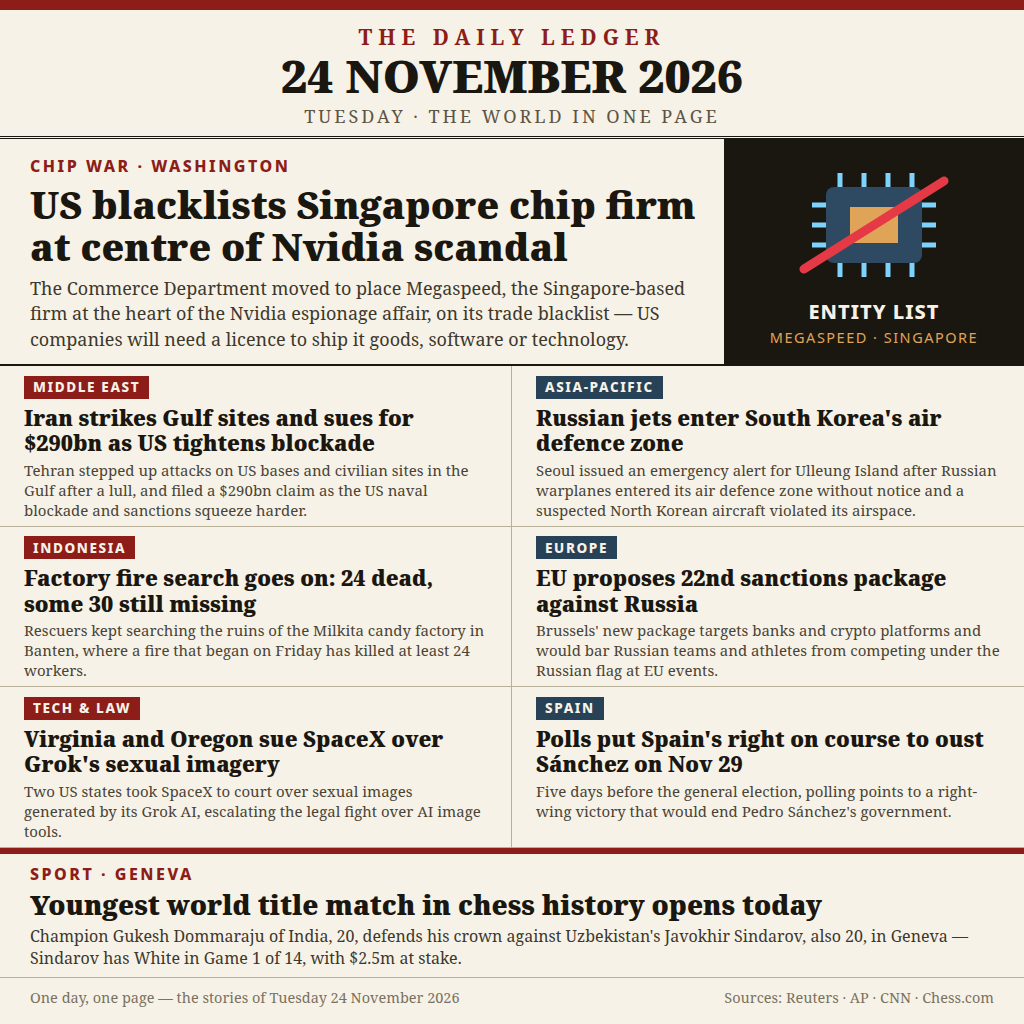
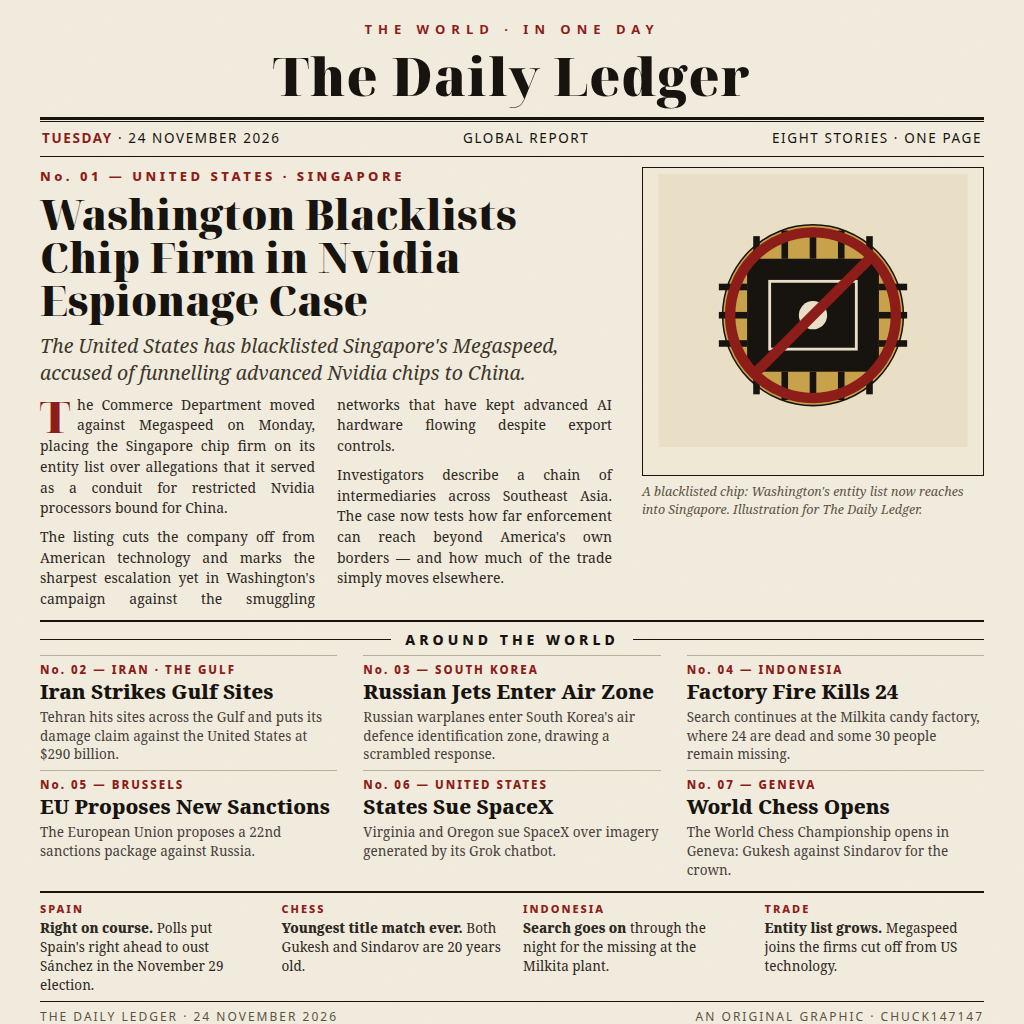
Premium broadsheet redesign: serif Ledger layout, chip-ban plate illustration

diff --git a/news.html b/news.html
@@ -4,106 +4,150 @@
 <meta charset="utf-8">
 <style>
   * { margin: 0; padding: 0; box-sizing: border-box; }
-  body { width: 1024px; height: 1024px; font-family: Georgia, "Noto Serif", "DejaVu Serif", serif; background: #f7f2e7; color: #1a1710; overflow: hidden; }
-  .rule-top { border-top: 10px solid #8c1d18; }
-  .masthead { text-align: center; padding: 13px 30px 8px; border-bottom: 3px double #1a1710; }
-  .masthead .brand { font-size: 21px; letter-spacing: 6px; color: #8c1d18; font-weight: 700; }
-  .masthead .date { font-size: 46px; font-weight: 900; line-height: 1.08; }
-  .masthead .sub { font-size: 18px; letter-spacing: 3px; color: #5c5546; margin-top: 3px; }
-  .lead { display: flex; border-bottom: 2.5px solid #1a1710; }
-  .lead .txt { flex: 1; padding: 16px 26px 12px 30px; }
-  .kicker { font-family: "Noto Sans", "DejaVu Sans", sans-serif; color: #8c1d18; font-weight: 800; font-size: 16px; letter-spacing: 2.5px; }
-  .lead h1 { font-size: 38px; line-height: 1.12; font-weight: 900; margin: 6px 0 8px; }
-  .lead p { font-size: 18px; line-height: 1.42; color: #3d382c; }
-  .lead .art { width: 300px; background: #1a1710; display: flex; flex-direction: column; align-items: center; justify-content: center; padding: 14px 0 10px; }
-  .lead .art .cap1 { color: #f7f2e7; font-family: "Noto Sans", sans-serif; font-size: 20px; font-weight: 800; margin-top: 9px; text-align: center; letter-spacing: 1px; }
-  .lead .art .cap2 { color: #e0a458; font-family: "Noto Sans", sans-serif; font-size: 14.5px; margin-top: 2px; letter-spacing: 1.5px; }
-  .grid { display: grid; grid-template-columns: 1fr 1fr; }
-  .story { padding: 9px 24px 6px; border-bottom: 1.5px solid #b9b09a; min-height: 112px; }
-  .story:nth-child(odd) { border-right: 1.5px solid #b9b09a; }
-  .story .tag { font-family: "Noto Sans", sans-serif; display: inline-block; font-size: 13.5px; font-weight: 800; letter-spacing: 1.6px; color: #f7f2e7; background: #8c1d18; padding: 2.5px 9px; margin-bottom: 6px; }
-  .story .tag.alt { background: #274156; }
-  .story h2 { font-size: 21.5px; line-height: 1.18; font-weight: 900; margin-bottom: 4px; }
-  .story p { font-size: 15px; line-height: 1.34; color: #4a4436; }
-  .band { border-top: 6px solid #8c1d18; padding: 9px 30px 2px; }
-  .band h1 { font-size: 27px; line-height: 1.18; font-weight: 900; margin: 4px 0 4px; }
-  .band p { font-size: 16px; line-height: 1.38; color: #3d382c; }
-  footer { display: flex; justify-content: space-between; padding: 9px 30px; font-size: 14.5px; color: #7a7260; border-top: 1.5px solid #b9b09a; margin-top: 6px; }
+  body { width: 1024px; height: 1024px; background: #f4eee0; color: #171410; font-family: "Noto Serif", "DejaVu Serif", serif; overflow: hidden; position: relative; }
+  .grain { position: absolute; inset: 0; opacity: 0.5; pointer-events: none; }
+  .page { position: relative; padding: 20px 40px 0; }
+  .nameplate { text-align: center; }
+  .nameplate .over { font-family: "Noto Sans", sans-serif; font-size: 13px; letter-spacing: 6px; color: #8c1d18; font-weight: 700; }
+  .nameplate h1 { font-family: "Noto Serif Display", "Noto Serif", serif; font-weight: 900; font-size: 52px; letter-spacing: 1px; margin: 2px 0 6px; }
+  .rule-double { border-top: 3.5px solid #171410; border-bottom: 1px solid #171410; height: 5px; }
+  .dateline { display: flex; justify-content: space-between; font-family: "Noto Sans", sans-serif; font-size: 13.5px; letter-spacing: 1.6px; padding: 7px 2px 9px; border-bottom: 1px solid #171410; text-transform: uppercase; }
+  .dateline b { color: #8c1d18; }
+  .lead { display: flex; gap: 30px; padding: 10px 0 10px; border-bottom: 2px solid #171410; }
+  .lead .txt { flex: 1.25; }
+  .kicker { font-family: "Noto Sans", sans-serif; font-size: 13px; font-weight: 800; letter-spacing: 3.5px; color: #8c1d18; }
+  .lead h2 { font-family: "Noto Serif Display", "Noto Serif", serif; font-weight: 900; font-size: 41px; line-height: 1.05; margin: 8px 0 10px; }
+  .standfirst { font-size: 19.5px; font-style: italic; line-height: 1.4; color: #3d372c; margin-bottom: 8px; }
+  .cols { column-count: 2; column-gap: 22px; font-size: 14px; line-height: 1.48; color: #2c2822; text-align: justify; }
+  .cols p + p { margin-top: 8px; }
+  .dropcap::first-letter { font-family: "Noto Serif Display", serif; font-weight: 900; font-size: 44px; float: left; line-height: 0.85; padding: 3px 7px 0 0; color: #8c1d18; }
+  .plate { width: 342px; }
+  .plate .frame { border: 1px solid #171410; padding: 6px; background: #efe8d5; }
+  .plate figcaption { font-size: 12.5px; font-style: italic; color: #5a5344; margin-top: 7px; line-height: 1.4; }
+  .section-head { display: flex; align-items: center; gap: 14px; margin: 8px 0 6px; }
+  .section-head .line { flex: 1; border-top: 1px solid #171410; }
+  .section-head .t { font-family: "Noto Sans", sans-serif; font-size: 14px; font-weight: 800; letter-spacing: 4px; }
+  .briefs { display: grid; grid-template-columns: repeat(3, 1fr); gap: 0 26px; }
+  .brief { padding: 6px 0 6px; border-top: 1px solid #b9b09a; }
+  .brief .no { font-family: "Noto Sans", sans-serif; font-size: 11.5px; font-weight: 800; letter-spacing: 2px; color: #8c1d18; }
+  .brief h3 { font-size: 20.5px; font-weight: 800; line-height: 1.16; margin: 3px 0 4px; }
+  .brief p { font-size: 13.5px; line-height: 1.4; color: #45403a; }
+  .digest { display: grid; grid-template-columns: repeat(4, 1fr); gap: 0 22px; border-top: 2px solid #171410; margin-top: 5px; padding-top: 8px; }
+  .digest .cell .tag { font-family: "Noto Sans", sans-serif; font-size: 11px; font-weight: 800; letter-spacing: 2px; color: #8c1d18; }
+  .digest .cell p { font-size: 13.5px; line-height: 1.42; color: #2c2822; margin-top: 3px; }
+  .digest .cell b { font-weight: 800; }
+  footer { display: flex; justify-content: space-between; border-top: 1px solid #171410; margin-top: 6px; padding-top: 6px; font-family: "Noto Sans", sans-serif; font-size: 12px; letter-spacing: 2px; color: #5a5344; text-transform: uppercase; }
 </style>
 </head>
 <body>
-  <div class="rule-top"></div>
-  <div class="masthead">
-    <div class="brand">THE DAILY LEDGER</div>
-    <div class="date">24 NOVEMBER 2026</div>
-    <div class="sub">TUESDAY · THE WORLD IN ONE PAGE</div>
-  </div>
+  <svg class="grain" width="1024" height="1024"><filter id="n"><feTurbulence type="fractalNoise" baseFrequency="0.9" numOctaves="2"/><feColorMatrix values="0 0 0 0 0  0 0 0 0 0  0 0 0 0 0  0 0 0 0.05 0"/></filter><rect width="1024" height="1024" filter="url(#n)"/></svg>
+  <div class="page">
+    <div class="nameplate">
+      <div class="over">THE WORLD · IN ONE DAY</div>
+      <h1>The Daily Ledger</h1>
+    </div>
+    <div class="rule-double"></div>
+    <div class="dateline">
+      <span><b>Tuesday</b> · 24 November 2026</span>
+      <span>Global Report</span>
+      <span>Eight Stories · One Page</span>
+    </div>
 
-  <div class="lead">
-    <div class="txt">
-      <div class="kicker">CHIP WAR · WASHINGTON</div>
-      <h1>US blacklists Singapore chip firm at centre of Nvidia scandal</h1>
-      <p>The Commerce Department moved to place Megaspeed, the Singapore-based firm at the heart of the Nvidia espionage affair, on its trade blacklist — US companies will need a licence to ship it goods, software or technology.</p>
+    <div class="lead">
+      <div class="txt">
+        <div class="kicker">No. 01 — UNITED STATES · SINGAPORE</div>
+        <h2>Washington Blacklists Chip Firm in Nvidia Espionage Case</h2>
+        <p class="standfirst">The United States has blacklisted Singapore's Megaspeed, accused of funnelling advanced Nvidia chips to China.</p>
+        <div class="cols">
+          <p class="dropcap">The Commerce Department moved against Megaspeed on Monday, placing the Singapore chip firm on its entity list over allegations that it served as a conduit for restricted Nvidia processors bound for China.</p>
+          <p>The listing cuts the company off from American technology and marks the sharpest escalation yet in Washington's campaign against the smuggling networks that have kept advanced AI hardware flowing despite export controls.</p>
+          <p>Investigators describe a chain of intermediaries across Southeast Asia. The case now tests how far enforcement can reach beyond America's own borders — and how much of the trade simply moves elsewhere.</p>
+        </div>
+      </div>
+      <figure class="plate">
+        <div class="frame">
+          <svg width="328" height="290" viewBox="0 0 328 308">
+            <rect width="328" height="290" fill="#e9dfc6"/>
+            <circle cx="164" cy="150" r="96" fill="#c8a24a"/>
+            <circle cx="164" cy="150" r="96" fill="none" stroke="#171410" stroke-width="1.6"/>
+            <g stroke="#171410" stroke-width="7">
+              <line x1="104" y1="96" x2="104" y2="66"/><line x1="134" y1="90" x2="134" y2="60"/>
+              <line x1="164" y1="90" x2="164" y2="60"/><line x1="194" y1="90" x2="194" y2="60"/>
+              <line x1="224" y1="96" x2="224" y2="66"/>
+              <line x1="104" y1="204" x2="104" y2="234"/><line x1="134" y1="210" x2="134" y2="240"/>
+              <line x1="164" y1="210" x2="164" y2="240"/><line x1="194" y1="210" x2="194" y2="240"/>
+              <line x1="224" y1="204" x2="224" y2="234"/>
+              <line x1="94" y1="120" x2="64" y2="120"/><line x1="94" y1="150" x2="64" y2="150"/><line x1="94" y1="180" x2="64" y2="180"/>
+              <line x1="234" y1="120" x2="264" y2="120"/><line x1="234" y1="150" x2="264" y2="150"/><line x1="234" y1="180" x2="264" y2="180"/>
+            </g>
+            <rect x="94" y="90" width="140" height="120" fill="#171410"/>
+            <rect x="118" y="114" width="92" height="72" fill="none" stroke="#e9dfc6" stroke-width="3"/>
+            <circle cx="164" cy="150" r="15" fill="#e9dfc6"/>
+            <circle cx="164" cy="150" r="88" fill="none" stroke="#8c1d18" stroke-width="11"/>
+            <line x1="102" y1="212" x2="226" y2="88" stroke="#8c1d18" stroke-width="11"/>
+          </svg>
+        </div>
+        <figcaption>A blacklisted chip: Washington's entity list now reaches into Singapore. Illustration for The Daily Ledger.</figcaption>
+      </figure>
     </div>
-    <div class="art">
-      <svg width="200" height="128" viewBox="0 0 200 128">
-        <rect x="52" y="26" width="96" height="76" rx="8" fill="#2e4a62"/>
-        <rect x="76" y="46" width="48" height="36" fill="#e0a458"/>
-        <g stroke="#7dd3fc" stroke-width="5">
-          <path d="M66 26 v-14 M90 26 v-14 M114 26 v-14 M138 26 v-14"/>
-          <path d="M66 116 v-14 M90 116 v-14 M114 116 v-14 M138 116 v-14"/>
-          <path d="M52 44 H38 M52 64 H38 M52 84 H38"/>
-          <path d="M162 44 h-14 M162 64 h-14 M162 84 h-14"/>
-        </g>
-        <path d="M30 108 L170 20" stroke="#e63946" stroke-width="9" stroke-linecap="round"/>
-      </svg>
-      <div class="cap1">ENTITY LIST</div>
-      <div class="cap2">MEGASPEED · SINGAPORE</div>
-    </div>
-  </div>
 
-  <div class="grid">
-    <div class="story">
-      <span class="tag">MIDDLE EAST</span>
-      <h2>Iran strikes Gulf sites and sues for $290bn as US tightens blockade</h2>
-      <p>Tehran stepped up attacks on US bases and civilian sites in the Gulf after a lull, and filed a $290bn claim as the US naval blockade and sanctions squeeze harder.</p>
+    <div class="section-head"><div class="line"></div><div class="t">AROUND THE WORLD</div><div class="line"></div></div>
+    <div class="briefs">
+      <div class="brief">
+        <div class="no">No. 02 — IRAN · THE GULF</div>
+        <h3>Iran Strikes Gulf Sites</h3>
+        <p>Tehran hits sites across the Gulf and puts its damage claim against the United States at $290 billion.</p>
+      </div>
+      <div class="brief">
+        <div class="no">No. 03 — SOUTH KOREA</div>
+        <h3>Russian Jets Enter Air Zone</h3>
+        <p>Russian warplanes enter South Korea's air defence identification zone, drawing a scrambled response.</p>
+      </div>
+      <div class="brief">
+        <div class="no">No. 04 — INDONESIA</div>
+        <h3>Factory Fire Kills 24</h3>
+        <p>Search continues at the Milkita candy factory, where 24 are dead and some 30 people remain missing.</p>
+      </div>
+      <div class="brief">
+        <div class="no">No. 05 — BRUSSELS</div>
+        <h3>EU Proposes New Sanctions</h3>
+        <p>The European Union proposes a 22nd sanctions package against Russia.</p>
+      </div>
+      <div class="brief">
+        <div class="no">No. 06 — UNITED STATES</div>
+        <h3>States Sue SpaceX</h3>
+        <p>Virginia and Oregon sue SpaceX over imagery generated by its Grok chatbot.</p>
+      </div>
+      <div class="brief">
+        <div class="no">No. 07 — GENEVA</div>
+        <h3>World Chess Opens</h3>
+        <p>The World Chess Championship opens in Geneva: Gukesh against Sindarov for the crown.</p>
+      </div>
     </div>
-    <div class="story">
-      <span class="tag alt">ASIA-PACIFIC</span>
-      <h2>Russian jets enter South Korea's air defence zone</h2>
-      <p>Seoul issued an emergency alert for Ulleung Island after Russian warplanes entered its air defence zone without notice and a suspected North Korean aircraft violated its airspace.</p>
-    </div>
-    <div class="story">
-      <span class="tag">INDONESIA</span>
-      <h2>Factory fire search goes on: 24 dead, some 30 still missing</h2>
-      <p>Rescuers kept searching the ruins of the Milkita candy factory in Banten, where a fire that began on Friday has killed at least 24 workers.</p>
-    </div>
-    <div class="story">
-      <span class="tag alt">EUROPE</span>
-      <h2>EU proposes 22nd sanctions package against Russia</h2>
-      <p>Brussels' new package targets banks and crypto platforms and would bar Russian teams and athletes from competing under the Russian flag at EU events.</p>
-    </div>
-    <div class="story">
-      <span class="tag">TECH &amp; LAW</span>
-      <h2>Virginia and Oregon sue SpaceX over Grok's sexual imagery</h2>
-      <p>Two US states took SpaceX to court over sexual images generated by its Grok AI, escalating the legal fight over AI image tools.</p>
-    </div>
-    <div class="story">
-      <span class="tag alt">SPAIN</span>
-      <h2>Polls put Spain's right on course to oust Sánchez on Nov 29</h2>
-      <p>Five days before the general election, polling points to a right-wing victory that would end Pedro Sánchez's government.</p>
-    </div>
-  </div>
 
-  <div class="band">
-    <div class="kicker">SPORT · GENEVA</div>
-    <h1>Youngest world title match in chess history opens today</h1>
-    <p>Champion Gukesh Dommaraju of India, 20, defends his crown against Uzbekistan's Javokhir Sindarov, also 20, in Geneva — Sindarov has White in Game 1 of 14, with $2.5m at stake.</p>
-  </div>
+    <div class="digest">
+      <div class="cell">
+        <div class="tag">SPAIN</div>
+        <p><b>Right on course.</b> Polls put Spain's right ahead to oust Sánchez in the November 29 election.</p>
+      </div>
+      <div class="cell">
+        <div class="tag">CHESS</div>
+        <p><b>Youngest title match ever.</b> Both Gukesh and Sindarov are 20 years old.</p>
+      </div>
+      <div class="cell">
+        <div class="tag">INDONESIA</div>
+        <p><b>Search goes on</b> through the night for the missing at the Milkita plant.</p>
+      </div>
+      <div class="cell">
+        <div class="tag">TRADE</div>
+        <p><b>Entity list grows.</b> Megaspeed joins the firms cut off from US technology.</p>
+      </div>
+    </div>
 
-  <footer>
-    <span>One day, one page — the stories of Tuesday 24 November 2026</span>
-    <span>Sources: Reuters · AP · CNN · Chess.com</span>
-  </footer>
+    <footer>
+      <span>The Daily Ledger · 24 November 2026</span>
+      <span>An original graphic · chuck147147</span>
+    </footer>
+  </div>
 </body>
 </html>
